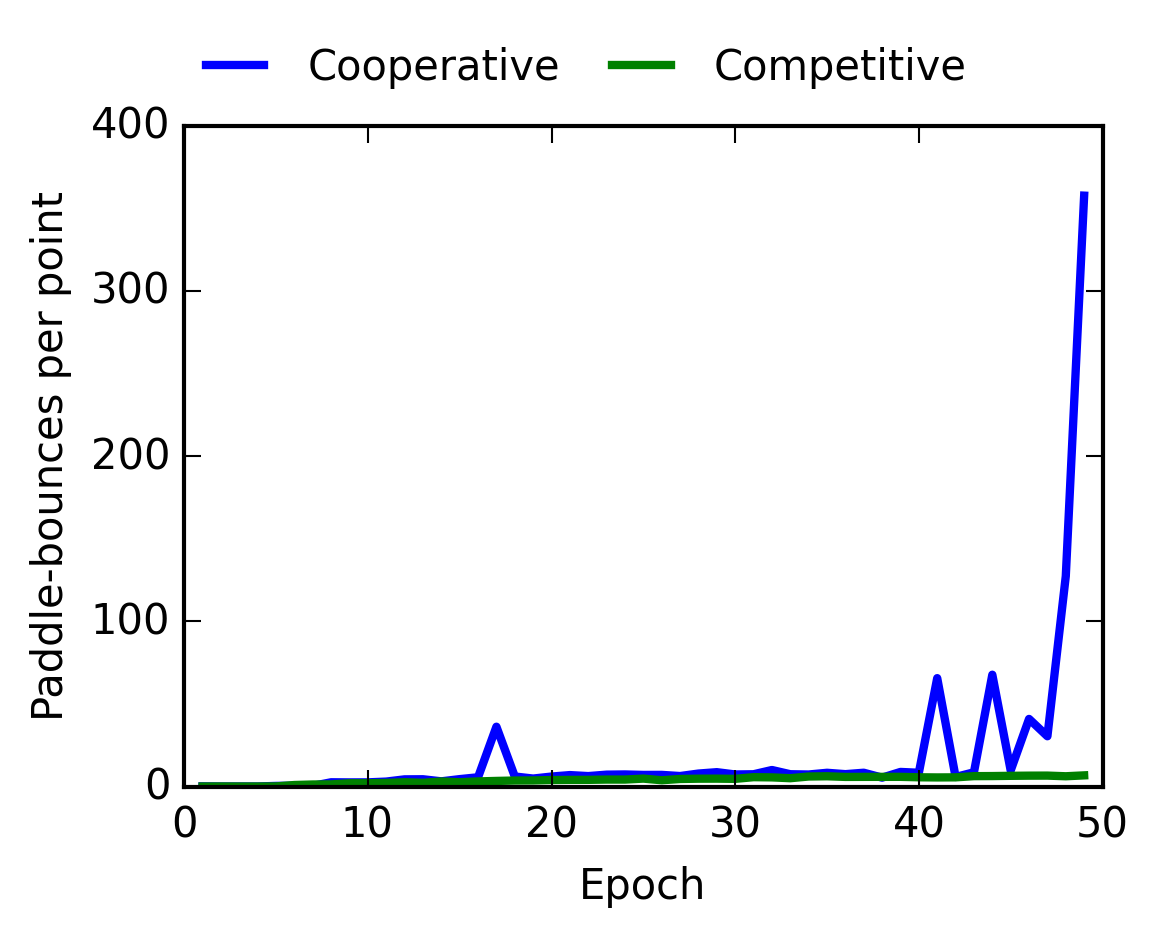
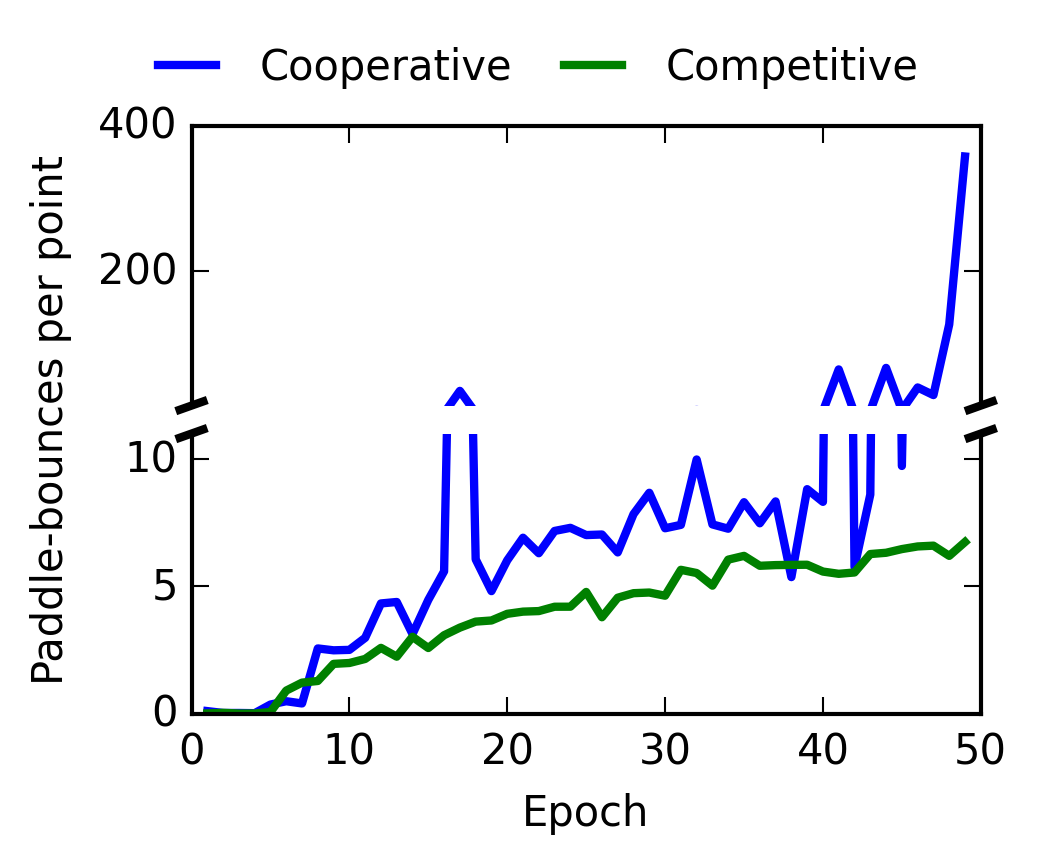
Used split diagram for sidebounces history.

diff --git a/plots/plot.py b/plots/plot.py
@@ -83,17 +83,53 @@ plt.tight_layout()
 plt.savefig('wallbounces_history.png', dpi=dpi, bbox_extra_artists=(lgd,), bbox_inches='tight')
 
 plt.clf()
+#f, (ax1, ax2) = plt.subplots(2, 1, sharex=True, figsize=(4,3))
+#ax = plt.subplot2grid((2,2), (0,0), rowspan=2)
+#ax1 = plt.subplot2grid((2,2), (0,1))
+#ax2 = plt.subplot2grid((2,2), (1,1))
+f = plt.figure(figsize=(4,3))
+ax = f.add_subplot(111)    # The big subplot
+ax1 = f.add_subplot(211)
+ax2 = f.add_subplot(212)
 for i, file_name in enumerate(csv_files):
   #plt.errorbar(epochs[i], means[i][:,1], yerr=stds[i][:,1])
-  plt.plot(epochs[i], means[i][:,0])
-plt.locator_params(axis='y', nbins=5)
-plt.ylabel("Paddle-bounces per point")
-plt.xlabel("Epoch")
+  ax1.plot(epochs[i], means[i][:,0])
+  ax2.plot(epochs[i], means[i][:,0])
+
+ax1.set_ylim(16, 400)
+ax2.set_ylim(0, 11)
+ax1.spines['bottom'].set_visible(False)
+ax2.spines['top'].set_visible(False)
+ax1.xaxis.tick_top()
+ax1.tick_params(labeltop='off')  # don't put tick labels at the top
+ax2.xaxis.tick_bottom()
+ax1.locator_params(axis='y', nbins=3)
+ax2.locator_params(axis='y', nbins=3)
+
+d = .015  # how big to make the diagonal lines in axes coordinates
+# arguments to pass plot, just so we don't keep repeating them
+kwargs = dict(transform=ax1.transAxes, color='k', clip_on=False)
+ax1.plot((-d, +d), (-d, +d), **kwargs)        # top-left diagonal
+ax1.plot((1 - d, 1 + d), (-d, +d), **kwargs)  # top-right diagonal
+
+kwargs.update(transform=ax2.transAxes)  # switch to the bottom axes
+ax2.plot((-d, +d), (1 - d, 1 + d), **kwargs)  # bottom-left diagonal
+ax2.plot((1 - d, 1 + d), (1 - d, 1 + d), **kwargs)  # bottom-right diagonal
+
+ax.spines['top'].set_color('none')
+ax.spines['bottom'].set_color('none')
+ax.spines['left'].set_color('none')
+ax.spines['right'].set_color('none')
+ax.tick_params(labelcolor='w', top='off', bottom='off', left='off', right='off')
+
+ax.set_ylabel("Paddle-bounces per point", labelpad=10)
+ax.set_xlabel("Epoch")
 #ax = plt.gca()
 #ax.set_yscale("log")
-lgd = plt.legend(labels, loc="lower center", bbox_to_anchor=(0.43, 1.),
+lgd = ax1.legend(labels, loc="lower center", bbox_to_anchor=(0.43, 1.),
            ncol=2, columnspacing=1, frameon=False)
 plt.tight_layout()
+f.subplots_adjust(hspace=0.1)
 plt.savefig('sidebounces_history.png', dpi=dpi, bbox_extra_artists=(lgd,), bbox_inches='tight')
 
 plt.clf()
